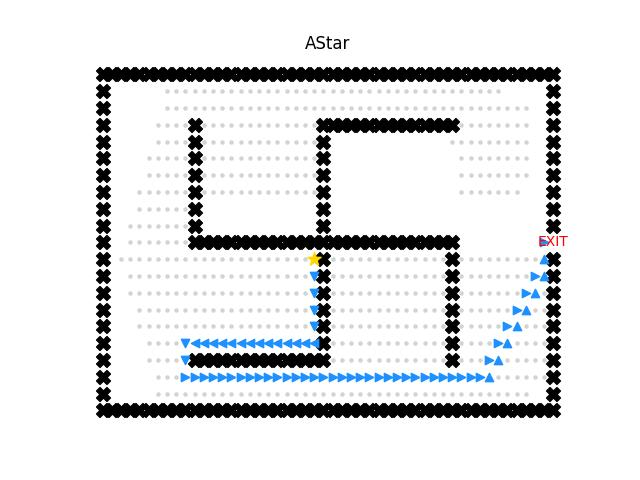
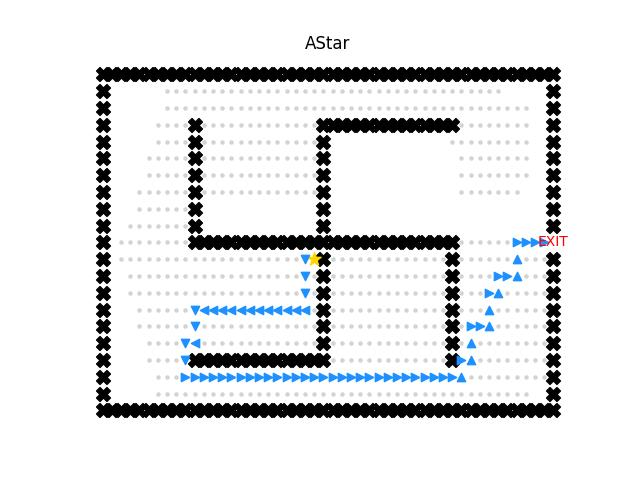
add explored node

Changed region(s): [[0.6875, 0.4688, 0.875, 0.8125], [0.2812, 0.5312, 0.5, 0.75]]

diff --git a/source/A_Star.py b/source/A_Star.py
@@ -81,5 +81,5 @@ def AStar(matrix, start, end, bonus_points):
                 nextNode = Node(state=neighBor, parent=current, g=current.g+1, h=h_func1(neighBor, end))
                 frontier.put(nextNode)
 
-    return None, None, -1
+    return None, visited, -1
 

diff --git a/source/GBFS.py b/source/GBFS.py
@@ -57,5 +57,5 @@ def GBFS(matrix, start, end, bonus_points):
         current = Node(state=frontier.get()[1], parent=current, cost=current.cost+1)
         # print(current.state)
     
-    return None, None, -1
+    return None, visited, -1
         

diff --git a/source/UCS.py b/source/UCS.py
@@ -57,7 +57,7 @@ def UCS(matrix, start, end, bonus_points):
                 frontier.put(next)
                 trace[neighBor] = current[1]
 
-    return None, None, -1
+    return None, visited, -1
 
 
 if __name__ == '__main__':
